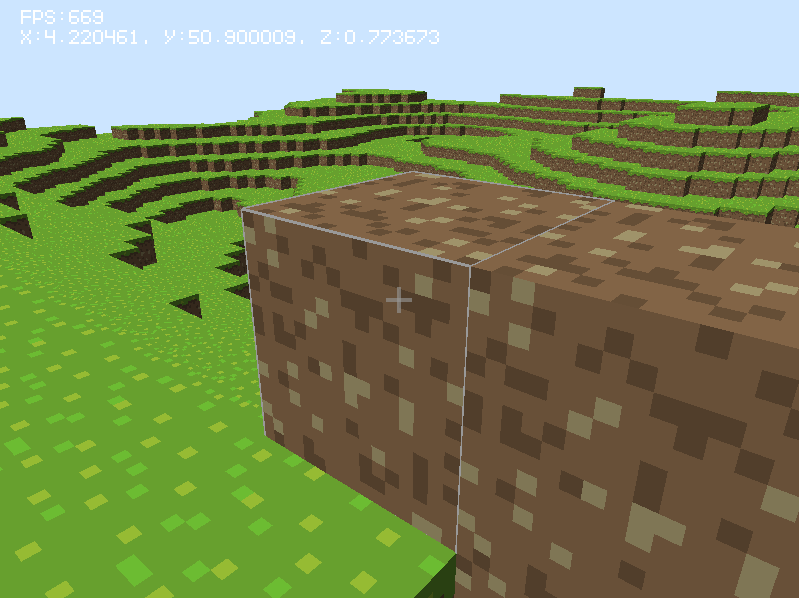
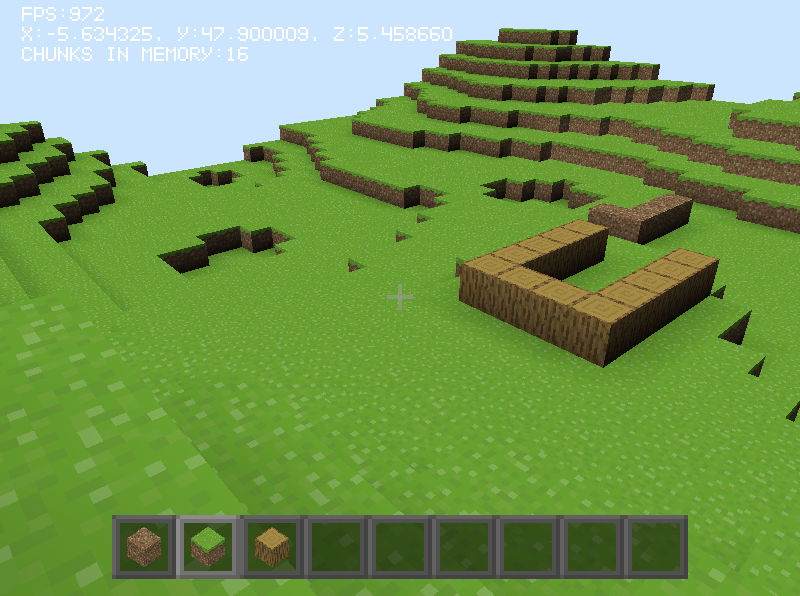
Ambient occlusion

diff --git a/src/MeshBuilder.cpp b/src/MeshBuilder.cpp
@@ -49,73 +49,91 @@ namespace yamc
 	{
 	}
 
-	void MeshBuilder::addCubeBlock(std::vector<glm::vec4>& positions, std::vector<glm::vec2>& uvs, std::vector<uint32_t>& indices, const glm::vec3& center, uint32_t id, uint32_t* surroundingBlocks) const
+	int calculateAO(int side1, int side2, int corner)
+	{
+		if (side1 && side2) {
+			return 0;
+		}
+		return 3 - (side1 + side2 + corner);
+	}
+
+	void MeshBuilder::addCubeBlock(std::vector<glm::vec4>& positions,
+		std::vector<glm::vec2>& uvs,
+		std::vector<uint32_t>& indices,
+		const glm::vec3 center,
+		const glm::ivec3 worldCoordinate,
+		uint32_t id,
+		const Terrain* terrain) const
 	{
 		for (int face = 0; face < 6; face++) {
-			if (surroundingBlocks == nullptr || surroundingBlocks[face] == 0) {
-				const int* atlasIndices = id < sizeof(BlockAtlasIndicesByType) ? BlockAtlasIndicesByType[id] : BlockAtlasIndicesByType[0];
-
-				uint32_t baseIndex = positions.size();
-				float illuminance = BlockFaceIlluminance[face];
-
-				for (int i = 0; i < 4; i++) {
-					auto position = glm::vec3(center + BlockFaceVertices[face][i] * BlockHalfWidth);
-					positions.push_back(glm::vec4(position, illuminance));
-				}
-
-				indices.push_back(baseIndex + 0);
-				indices.push_back(baseIndex + 1);
-				indices.push_back(baseIndex + 2);
-				indices.push_back(baseIndex + 0);
-				indices.push_back(baseIndex + 2);
-				indices.push_back(baseIndex + 3);
-
-				int atlasIndex = atlasIndices[(std::min)(face, 2)];
-				auto uvMin = atlas.getTileOffset(atlasIndex);
-				auto uvMax = uvMin + atlas.getUVScale();
-
-				uvs.push_back({ uvMin.x, uvMax.y });
-				uvs.push_back({ uvMax.x, uvMax.y });
-				uvs.push_back({ uvMax.x, uvMin.y });
-				uvs.push_back({ uvMin.x, uvMin.y });
+			auto normal = BlockFaceNormals[face];
+			auto adjuscentBlock = worldCoordinate + normal;
+			if (terrain != nullptr && (adjuscentBlock.y < 0 || terrain->getBlock(adjuscentBlock.x, adjuscentBlock.y, adjuscentBlock.z) != 0)) {
+				continue;
 			}
+
+			const int* atlasIndices = id < sizeof(BlockAtlasIndicesByType) ? BlockAtlasIndicesByType[id] : BlockAtlasIndicesByType[0];
+
+			uint32_t baseIndex = positions.size();
+			float illuminance = BlockFaceIlluminance[face];
+
+			for (int i = 0; i < 4; i++) {
+				auto vertexOffset = BlockFaceVertices[face][i];
+				float vertexIlluminance = illuminance;
+				if (terrain != nullptr) {
+					auto a1 = worldCoordinate + glm::ivec3(vertexOffset.x, vertexOffset.y, 0);
+					auto a2 = worldCoordinate + glm::ivec3(0, vertexOffset.y, vertexOffset.z);
+					auto aCorner = worldCoordinate + glm::ivec3(vertexOffset.x, vertexOffset.y, vertexOffset.z);
+					int side1 = terrain->getBlock(a1.x, a1.y, a1.z) != 0 ? 1 : 0;
+					int side2 = terrain->getBlock(a2.x, a2.y, a2.z) != 0 ? 1 : 0;
+					int corner = terrain->getBlock(aCorner.x, aCorner.y, aCorner.z) != 0 ? 1 : 0;
+					vertexIlluminance += calculateAO(side1, side2, corner) * 0.1f;
+					vertexIlluminance -= 0.3f;
+				}
+				
+				auto position = glm::vec3(center + BlockFaceVertices[face][i] * BlockHalfWidth);
+				positions.push_back(glm::vec4(position, vertexIlluminance));
+			}
+
+			indices.push_back(baseIndex + 0);
+			indices.push_back(baseIndex + 1);
+			indices.push_back(baseIndex + 2);
+			indices.push_back(baseIndex + 0);
+			indices.push_back(baseIndex + 2);
+			indices.push_back(baseIndex + 3);
+
+			int atlasIndex = atlasIndices[(std::min)(face, 2)];
+			auto uvMin = atlas.getTileOffset(atlasIndex);
+			auto uvMax = uvMin + atlas.getUVScale();
+
+			uvs.push_back({ uvMin.x, uvMax.y });
+			uvs.push_back({ uvMax.x, uvMax.y });
+			uvs.push_back({ uvMax.x, uvMin.y });
+			uvs.push_back({ uvMin.x, uvMin.y });
 		}
 	}
 
-	void MeshBuilder::rebuildChunk(Chunk* chunk) const
+	void MeshBuilder::rebuildChunk(uint64_t chunkKey, Chunk* chunk, const Terrain* terrain) const
 	{
-		static uint32_t surroundingBlocks[6];
+		auto chunkOffset = getChunkOffset(chunkKey);
 
-		std::vector<glm::vec4> positions;
-		std::vector<glm::vec2> uvs;
-		std::vector<uint32_t> indices;
+		static std::vector<glm::vec4> positions;
+		static std::vector<glm::vec2> uvs;
+		static std::vector<uint32_t> indices;
+
+		positions.clear();
+		uvs.clear();
+		indices.clear();
 
 		for (int x = 0; x < Chunk::MaxWidth; x++) {
 			for (int y = 0; y < Chunk::MaxHeight; y++) {
 				for (int z = 0; z < Chunk::MaxLength; z++) {
 					uint32_t id = chunk->getBlock(x, y, z);
 					if (id > 0) {
+						glm::ivec3 worldCoordinate(x + chunkOffset[0] * Chunk::MaxWidth, y, z + chunkOffset[1] * Chunk::MaxLength);
+						glm::vec3 center(x * BlockWidth + BlockHalfWidth, y * BlockWidth + BlockHalfWidth, z * BlockWidth + BlockHalfWidth);
 
-						for (int i = 0; i < 6; i++) {
-							auto coord = BlockFaceNormals[i];
-							coord.x += x;
-							coord.y += y;
-							coord.z += z;
-							if (coord.x >= 0 && coord.x < Chunk::MaxWidth &&
-								coord.y >= 0 && coord.y < Chunk::MaxHeight &&
-								coord.z >= 0 && coord.z < Chunk::MaxLength) {
-								surroundingBlocks[i] = chunk->getBlock(coord.x, coord.y, coord.z);
-							}
-							else {
-								surroundingBlocks[i] = 0;
-							}
-						}
-
-						glm::vec3 center(x, y, z);
-						center *= BlockWidth;
-						center += glm::vec3(BlockHalfWidth, BlockHalfWidth, BlockHalfWidth);
-
-						addCubeBlock(positions, uvs, indices, center, id, surroundingBlocks);
+						addCubeBlock(positions, uvs, indices, center, worldCoordinate, id, terrain);
 					}
 				}
 			}

diff --git a/src/Terrain.cpp b/src/Terrain.cpp
@@ -173,7 +173,21 @@ namespace yamc
 		chunk->setBlock(localX, y, localZ, id);
 
 		chunkKeysToSave.insert(chunkKey);
+		
+		auto chunkOffset = getChunkOffset(chunkKey);
 		chunkKeysToRebuild.insert(chunkKey);
+		if (localX == 0) {
+			addToRebuildIfExists(chunkOffset[0] - 1, chunkOffset[1]);
+		}
+		if (localX == Chunk::MaxWidth - 1) {
+			addToRebuildIfExists(chunkOffset[0] + 1, chunkOffset[1]);
+		}
+		if (localZ == 0) {
+			addToRebuildIfExists(chunkOffset[0], chunkOffset[1] - 1);
+		}
+		if (localZ == Chunk::MaxLength - 1) {
+			addToRebuildIfExists(chunkOffset[0], chunkOffset[1] + 1);
+		}
 	}
 
 	const std::unordered_map<uint64_t, Chunk*>& Terrain::getChunks() const
@@ -204,6 +218,27 @@ namespace yamc
 	std::set<uint64_t>& Terrain::getChunkKeysToRebuild()
 	{
 		return chunkKeysToRebuild;
+	}
+
+	void Terrain::addToRebuildWithAdjacent(uint64_t key)
+	{
+		chunkKeysToRebuild.insert(key);
+		auto offset = getChunkOffset(key);
+		for (int x = -1; x <= 1; x++) {
+			for (int z = -1; z <= 1; z++) {
+				if (abs(x) != abs(z)) {
+					addToRebuildIfExists(offset[0] + x, offset[1] + z);
+				}
+			}
+		}
+	}
+
+	void Terrain::addToRebuildIfExists(int x, int z)
+	{
+		uint64_t key = getChunkKey(x, z);
+		if (chunks.find(key) != chunks.end()) {
+			chunkKeysToRebuild.insert(key);
+		}
 	}
 
 	Terrain::~Terrain()

diff --git a/src/MeshBuilder.h b/src/MeshBuilder.h
@@ -5,6 +5,7 @@
 #include <glm/glm.hpp>
 #include <vector>
 #include "Chunk.h"
+#include "Terrain.h"
 
 namespace yamc
 {
@@ -15,8 +16,15 @@ namespace yamc
 
 		MeshBuilder(const AtlasTexture& atlas);
 
-		void addCubeBlock(std::vector<glm::vec4>& positions, std::vector<glm::vec2>& uvs, std::vector<uint32_t>& indices, const glm::vec3& center, uint32_t id, uint32_t* surroundingBlocks = nullptr) const;
-		void rebuildChunk(Chunk* chunk) const;
+		void addCubeBlock(std::vector<glm::vec4>& positions, 
+			std::vector<glm::vec2>& uvs, 
+			std::vector<uint32_t>& indices, 
+			const glm::vec3 center, 
+			const glm::ivec3 worldCoordinate, 
+			uint32_t id, 
+			const Terrain* terrain = nullptr) const;
+
+		void rebuildChunk(uint64_t chunkKey, Chunk* chunk, const Terrain* terrain) const;
 
 	private:
 		static const glm::ivec3 BlockFaceNormals[6];

diff --git a/src/Game.cpp b/src/Game.cpp
@@ -200,10 +200,11 @@ namespace yamc
 
 	void Game::rebuildChunkMeshes()
 	{
-		auto& chunksToRebuild = world.getTerrain().getChunkKeysToRebuild();
+		auto& terrain = world.getTerrain();
+		auto& chunksToRebuild = terrain.getChunkKeysToRebuild();
 		for (uint64_t chunkKey : chunksToRebuild) {
-			//world.getTerrain().getChunks()[chunkKey]->update();
-			renderer.getMeshBuilder().rebuildChunk(world.getTerrain().getChunks()[chunkKey]);
+			auto chunk = world.getTerrain().getChunks()[chunkKey];
+			renderer.getMeshBuilder().rebuildChunk(chunkKey, chunk, &terrain);
 		}
 		chunksToRebuild.clear();
 	}

diff --git a/src/World.h b/src/World.h
@@ -32,7 +32,7 @@ namespace yamc
 	private:
 		static constexpr uint32_t MinSurroundingChunksRadius = 1;
 		static constexpr uint32_t PurgeRemainingChunksRadius = 3;
-		static constexpr uint32_t MaxChunksInMemory = 25;
+		static constexpr uint32_t MaxChunksInMemory = 1500;
 
 	public:
 		World(const std::string& name, int seed);

diff --git a/src/Renderer.cpp b/src/Renderer.cpp
@@ -271,7 +271,7 @@ namespace yamc
 		std::vector<glm::vec2> uvs;
 		std::vector<uint32_t> indices;
 
-		meshBuilder.addCubeBlock(positions, uvs, indices, { 0, 0, 0 }, 0);
+		meshBuilder.addCubeBlock(positions, uvs, indices, { 0, 0, 0 }, {0, 0, 0}, 0);
 
 		blockMesh.setData(positions, uvs, indices);
 	}

diff --git a/src/Terrain.h b/src/Terrain.h
@@ -25,6 +25,8 @@ namespace yamc
 		std::set<uint64_t>& getChunkKeysToSave();
 		const std::set<uint64_t>& getChunkKeysToRebuild() const;
 		std::set<uint64_t>& getChunkKeysToRebuild();
+		void addToRebuildWithAdjacent(uint64_t key);
+		void addToRebuildIfExists(int x, int z);
 		~Terrain();
 
 	private:

diff --git a/src/World.cpp b/src/World.cpp
@@ -186,7 +186,7 @@ namespace yamc
 			fillChunk(chunk, offsetX, offsetZ, seed);
 		}
 		
-		terrain.getChunkKeysToRebuild().insert(chunkKey);
+		terrain.addToRebuildWithAdjacent(chunkKey);
 		chunks[chunkKey] = chunk;
 	}
 
